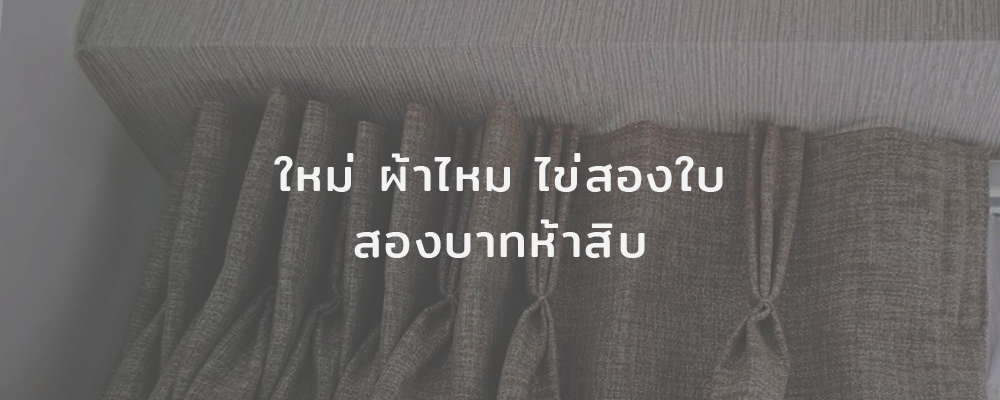
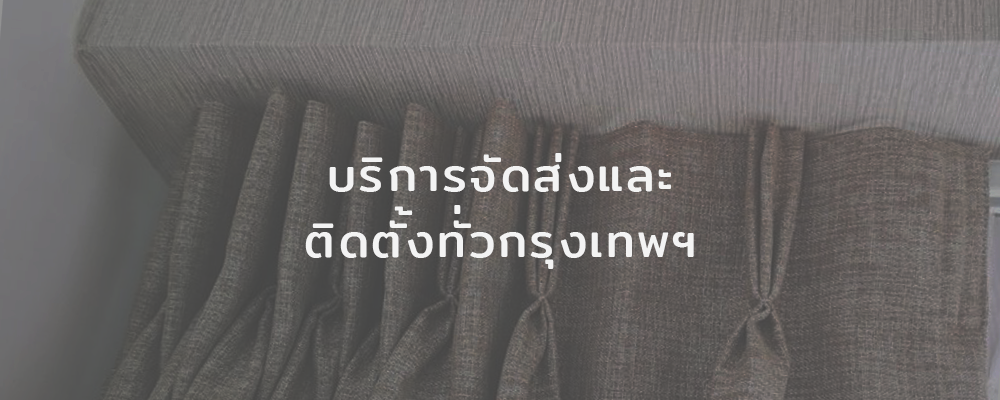
:art: update image & update BACKEND URI.

Changed region(s): [[0.279, 0.51, 0.713, 0.66], [0.279, 0.39, 0.744, 0.48]]

diff --git a/src/components/FloatBar/FloatBar.vue b/src/components/FloatBar/FloatBar.vue
@@ -112,7 +112,7 @@ export default {
   data() {
     return {
       state: false,
-      socket: io(`${process.env.BACKEND_IP}`),
+      socket: io(`${process.env.BACKEND_URI}`),
       chats: {
         room: null,
         data: null,
